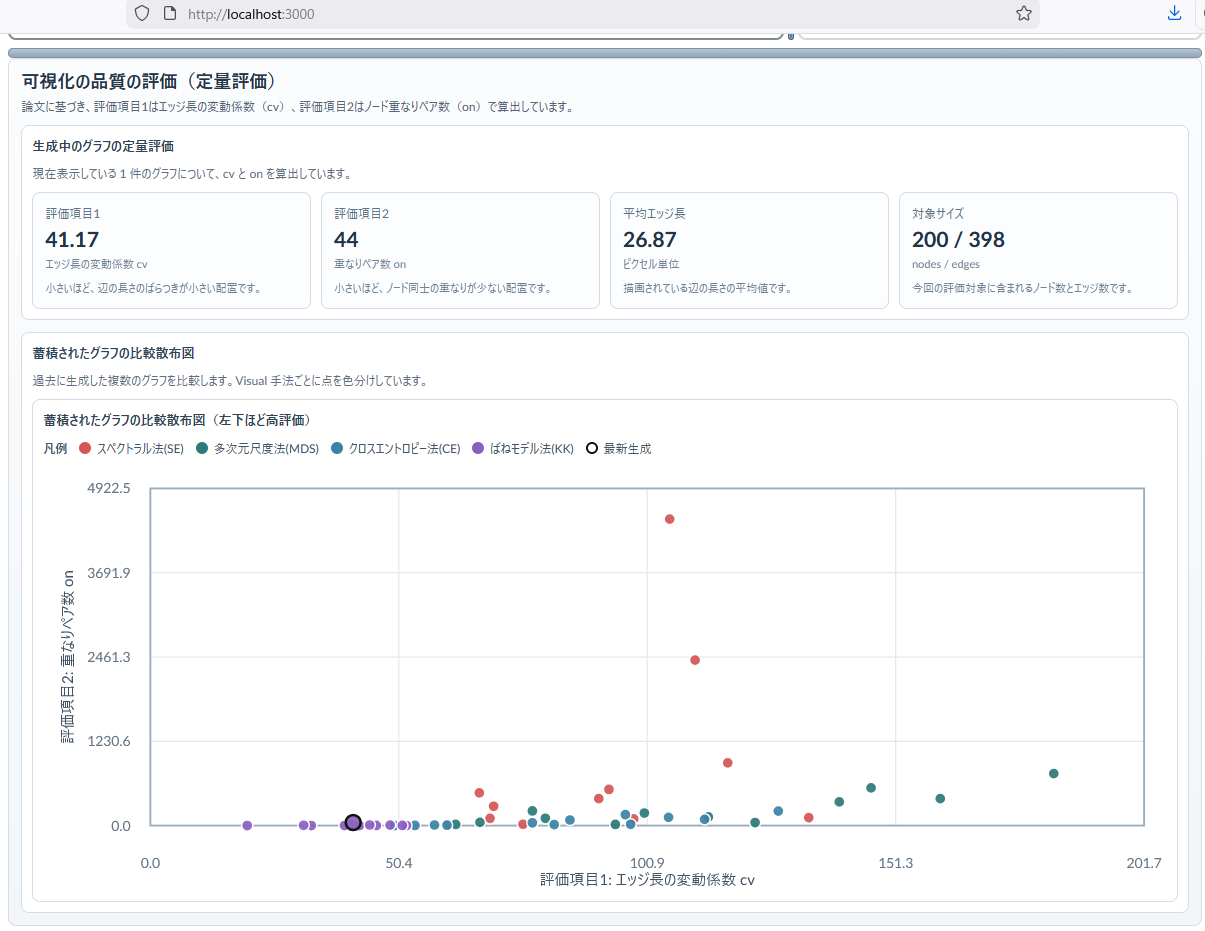
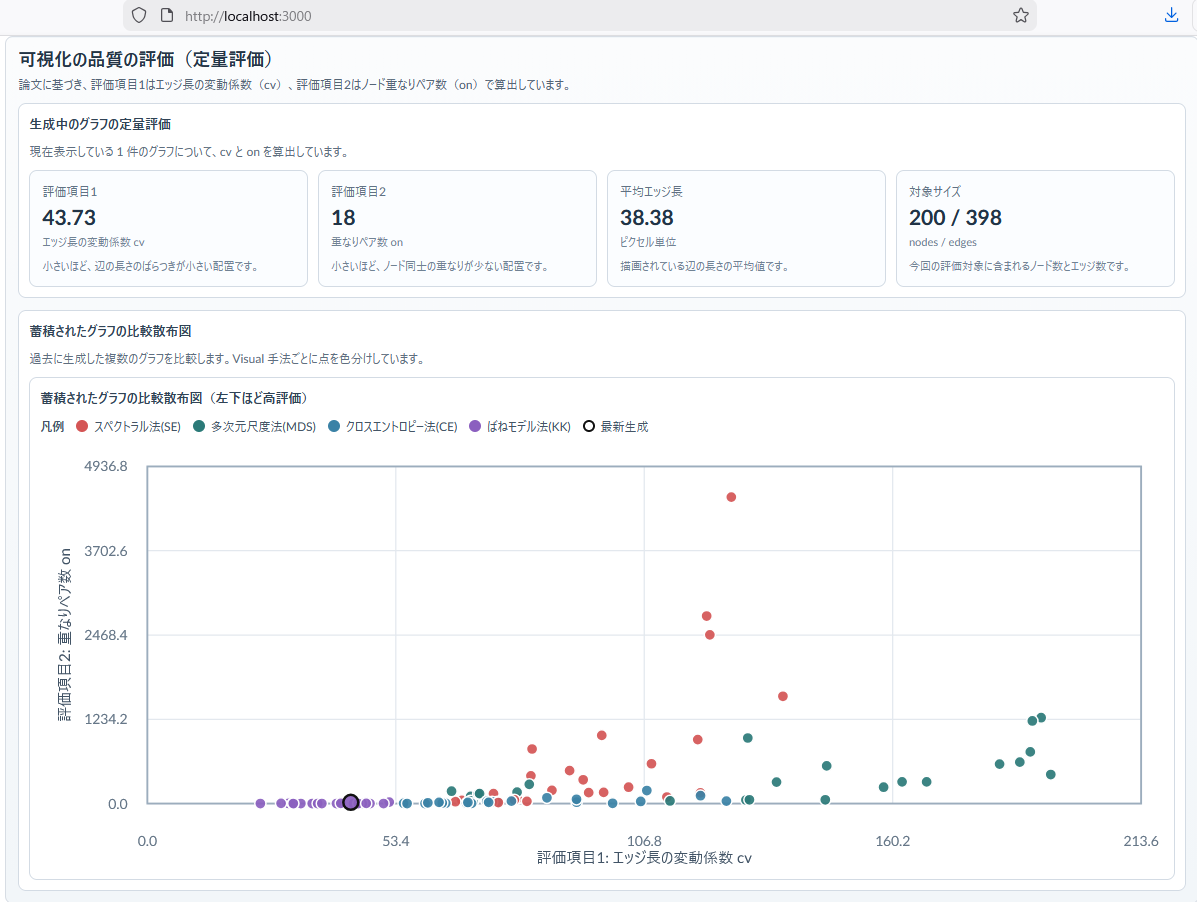
クエリ文章と類似文章のHTMLが崩れる不具合を修正

diff --git a/client/index.html b/client/index.html
@@ -2000,17 +2000,54 @@
             }
 
             /* 文書内容に出現する説明語を配色する関数 */
+            function escapeHtmlText(text)
+            {
+                return String(text || "")
+                    .replace(/&/g, "&amp;")
+                    .replace(/</g, "&lt;")
+                    .replace(/>/g, "&gt;")
+                    .replace(/"/g, "&quot;");
+            }
+
+            function escapeRegExp(text)
+            {
+                return String(text || "").replace(/[.*+?^${}()|[\]\\]/g, "\\$&");
+            }
+
             function highlightWord(docText, categories) {
-                categories.sort((a, b) => {return Number(b.keyword.length) - Number(a.keyword.length)});
-                for(let category of categories) {
-                    const regex = new RegExp(`(${category.keyword})`, "gi"); // 大文字小文字を区別しない
-                    const saturatedColor = toSaturatedColor(category.color, categorySaturationPercent);
-                    docText = docText.replace(
-                        regex,
-                        `<span class="keyword-highlight" data-base-color="${category.color}" style="background-color: ${saturatedColor}; padding: 2px 4px; border-radius: 4px;">$1</span>`
-                    );
+                const sortedCategories = [...categories]
+                    .filter((category) => category && category.keyword)
+                    .sort((a, b) => Number(b.keyword.length) - Number(a.keyword.length));
+                if (sortedCategories.length === 0) return escapeHtmlText(docText);
+
+                const keywordToCategory = new Map();
+                sortedCategories.forEach((category) => {
+                    const key = String(category.keyword).toLowerCase();
+                    if (!keywordToCategory.has(key)) keywordToCategory.set(key, category);
+                });
+
+                const combinedRegex = new RegExp(
+                    sortedCategories.map((category) => escapeRegExp(category.keyword)).join("|"),
+                    "gi"
+                );
+
+                let result = "";
+                let lastIndex = 0;
+                let match;
+                while ((match = combinedRegex.exec(docText)) !== null) {
+                    const matchedText = match[0];
+                    const category = keywordToCategory.get(matchedText.toLowerCase());
+                    result += escapeHtmlText(docText.slice(lastIndex, match.index));
+                    if (category) {
+                        const saturatedColor = toSaturatedColor(category.color, categorySaturationPercent);
+                        result += `<span class="keyword-highlight" data-base-color="${category.color}" style="background-color: ${saturatedColor}; padding: 2px 4px; border-radius: 4px;">${escapeHtmlText(matchedText)}</span>`;
+                    } else {
+                        result += escapeHtmlText(matchedText);
+                    }
+                    lastIndex = match.index + matchedText.length;
                 }
-                return docText;
+                result += escapeHtmlText(docText.slice(lastIndex));
+                return result;
             }
 
             /* エッジの生成関数 */

diff --git a/server-mecab/serverMecab.js b/server-mecab/serverMecab.js
@@ -9,9 +9,10 @@ function preprocessing(text) {
         ・ 「,」を「、」に置換
         ・ 「\t」を削除
         ・ 「\n」を削除
-        ・ 空白を削除（半角および全角）
+        ・ 不要な連続空白を 1 つに統一
         ・ アルファベットを小文字に統一
         ・ 記号を削除
+        ・ 英数字連結語は前後に空白を入れて境界を維持
     */
   const punctuation = `!"#$%&'()*+\\-./:;<=>?@[\\]^_{|}~「」〔〕“”〈〉『』【】＆＊・（）＄＃＠。、？！｀＋￥％■※`;
   const regexPunctuation = new RegExp(`[${punctuation}]`, "g");
@@ -19,9 +20,11 @@ function preprocessing(text) {
   text = text.replace(/,/g, "、");
   text = text.replace(/\t/g, "");
   text = text.replace(/[\n\r]/g, "");
-  text = text.replace(/\s+/g, "");
   text = text.toLowerCase();
   text = text.replace(regexPunctuation, "");
+  // 英数字列を日本語から分離して、未知語が1文字ずつ崩れにくい状態にする
+  text = text.replace(/([a-z0-9]+)/g, " $1 ");
+  text = text.replace(/[ \u3000]+/g, " ").trim();
   return text;
 }
 
